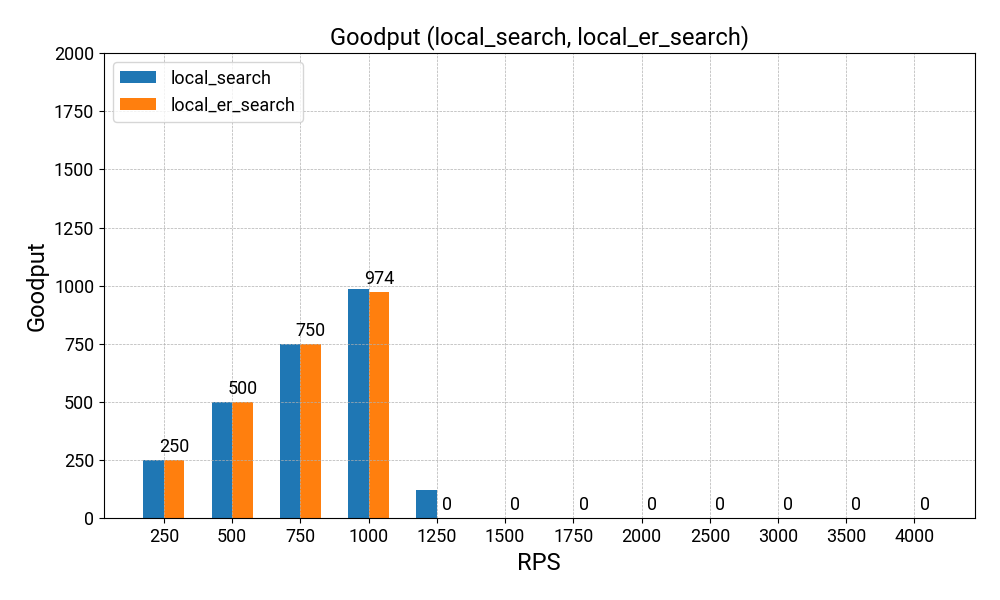
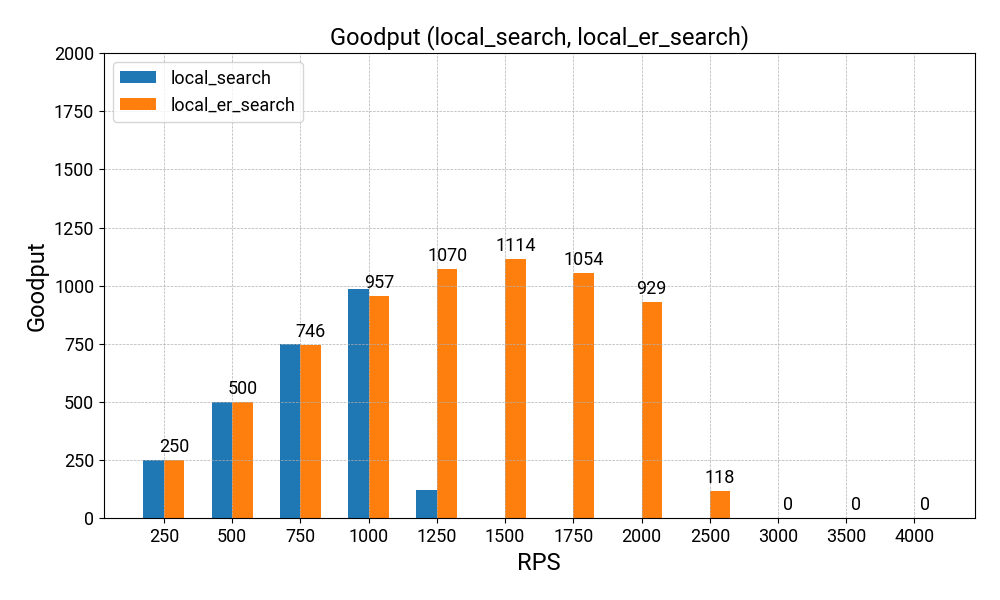
test: Add local_er reservation

diff --git a/tonic/src/masa/context/simple.rs b/tonic/src/masa/context/simple.rs
@@ -170,6 +170,7 @@ impl RequestHandlerHooks for SimpleParentContext {
             deadline = self.ctx.deadline();
             latest_exec_at = self.ctx.latest_exec_at();
         } else if PRIO_LOCAL || PRIO_LOCAL_EARLY {
+            // [TODO] Return two values at one time.
             deadline = self.ctx.deadline() - graph.estimate_suffix_deadline(&method.id());
             latest_exec_at =
                 self.ctx.deadline() - graph.estimate_suffix_latest_exec_at(&method.id());

diff --git a/tonic-masa/src/tracker.rs b/tonic-masa/src/tracker.rs
@@ -73,8 +73,8 @@ impl LatencyTracker {
         if self.percentiles.len() == 0 {
             self.mean
         } else {
-            // [KNOB] Different percentiles.
-            self.percentile(90)
+            // [TODO] Different percentiles.
+            self.percentile(50)
         }
     }
 }

diff --git a/reboot-hotel/snippets/single/README.md b/reboot-hotel/snippets/single/README.md
@@ -6,24 +6,38 @@ Folder `single` runs one of `search`/`reservation` in one of `fifo`/`e2e`/`e2e_e
 * `e2e`: Priority queue using e2e deadlines.
 * `e2e_er`: `e2e` plus early return.
 
-## Ongoing
+## Search
 
+### Ongoing
+
+![search fifo local_er](cmp/fig_goodput_rps_cmp_fifo_search_local_er_search_0.png)
+![search e2e_er local_er](cmp/fig_goodput_rps_cmp_e2e_er_search_local_er_search_0.png)
 ![search local local_er](cmp/fig_goodput_rps_cmp_local_search_local_er_search_0.png)
 
-## Search
+### Done
 
 ![fifo e2e](cmp/fig_goodput_rps_cmp_fifo_search_e2e_search_0.png)
 ![fifo e2e_er](cmp/fig_goodput_rps_cmp_fifo_search_e2e_er_search_0.png)
 ![e2e e2e_er](cmp/fig_goodput_rps_cmp_e2e_search_e2e_er_search_0.png)
+
 <!-- ![fifo](fifo_search/fig_goodput_rps_0.png)
 ![e2e](e2e_search/fig_goodput_rps_0.png)
 ![e2e_er](e2e_er_search/fig_goodput_rps_0.png) -->
 
 ## Reservation
 
+### Ongoing
+
+![reservation fifo local_er](cmp/fig_goodput_rps_cmp_fifo_reservation_local_er_reservation_0.png)
+![reservation e2e_er local_er](cmp/fig_goodput_rps_cmp_e2e_er_reservation_local_er_reservation_0.png)
+![reservation local local_er](cmp/fig_goodput_rps_cmp_local_reservation_local_er_reservation_0.png)
+
+### Done
+
 ![fifo e2e](cmp/fig_goodput_rps_cmp_fifo_reservation_e2e_reservation_0.png)
 ![fifo e2e_er](cmp/fig_goodput_rps_cmp_fifo_reservation_e2e_er_reservation_0.png)
 ![e2e e2e_er](cmp/fig_goodput_rps_cmp_e2e_reservation_e2e_er_reservation_0.png)
+
 <!-- ![fifo](fifo_reservation/fig_goodput_rps_0.png)
 ![e2e](e2e_reservation/fig_goodput_rps_0.png)
 ![e2e_er](e2e_er_reservation/fig_goodput_rps_0.png) -->
